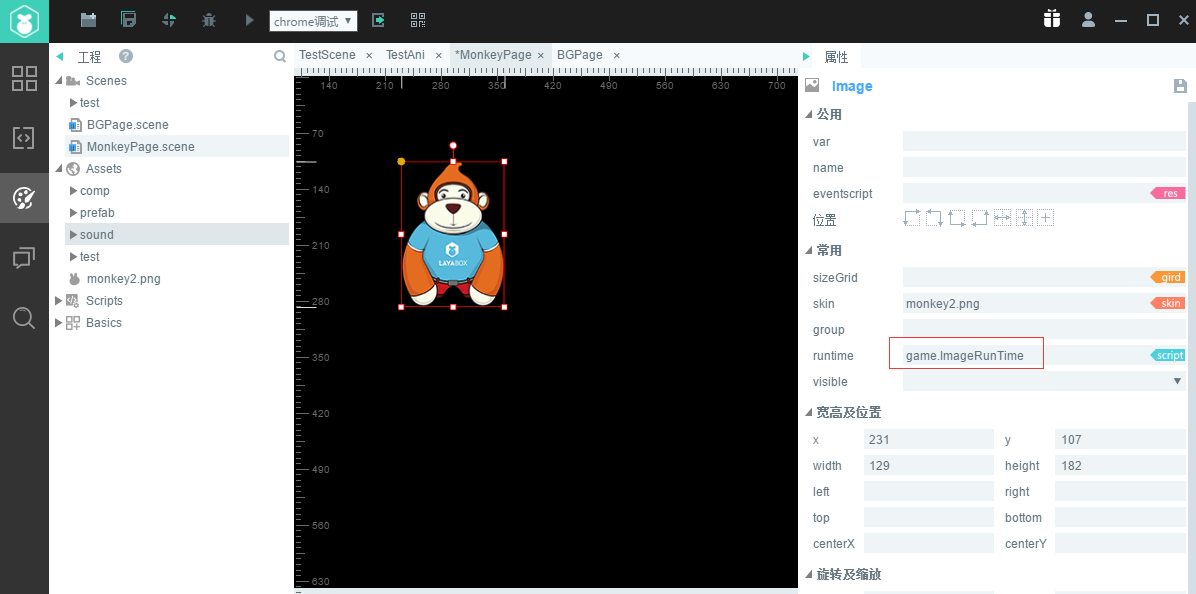
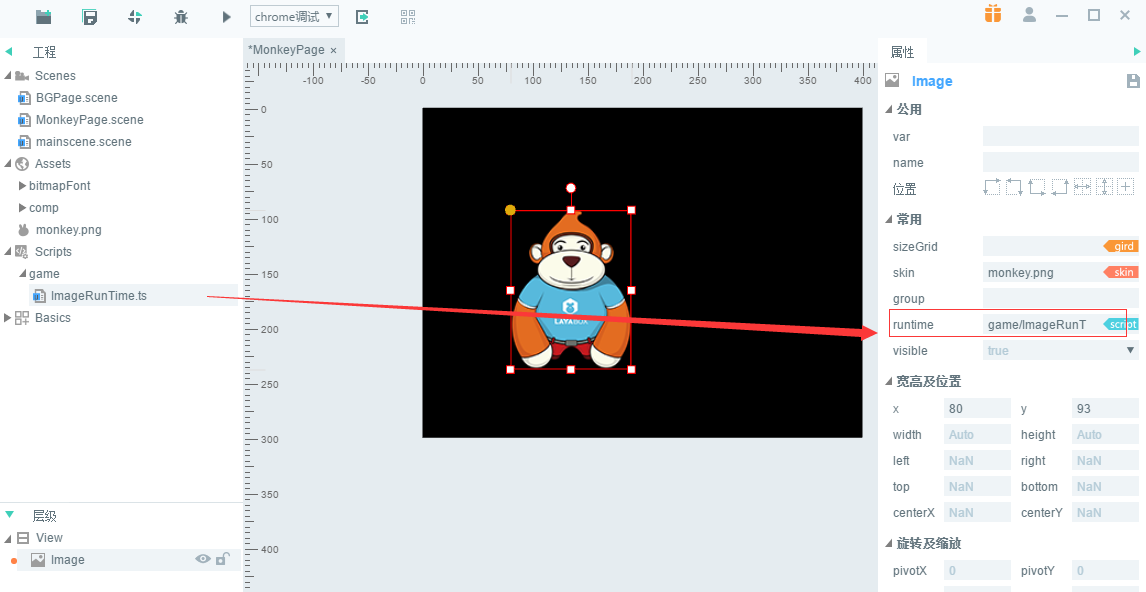
runtimeas

diff --git a/LayaAir2.0/Chinese/LayaAir_AS3/IDE/ScriptUse/runtime/readme.md b/LayaAir2.0/Chinese/LayaAir_AS3/IDE/ScriptUse/runtime/readme.md
@@ -18,7 +18,7 @@
 
 
 
-两个UI页面中各拖入一张Image组件，设置runtime属性为game.ImageRunTime。如图1图2所示：
+两个UI页面中各拖入一张Image组件，将脚本 imageRunTime拖入runtime属性框。如图1图2所示：
 
 ![1](img\ide2.png)(图1)
 
